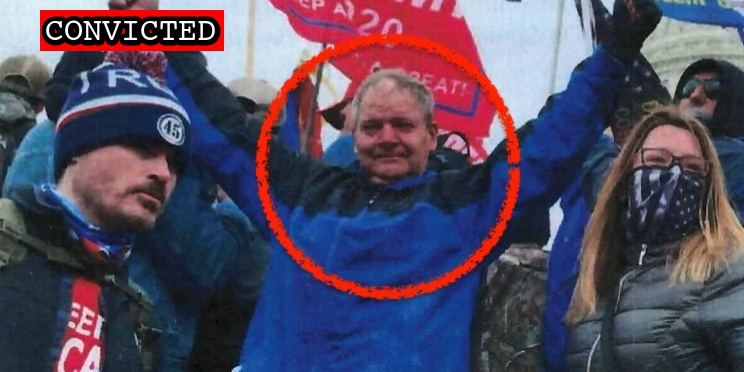
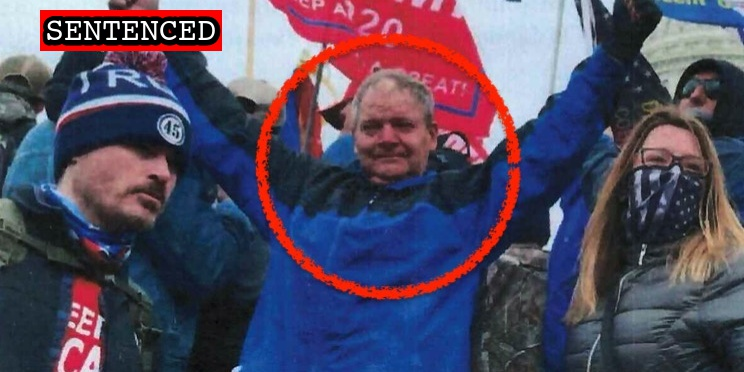
Richardson sentence

Changed region(s): [[0.0309, 0.0296, 0.2473, 0.1478], [0.2782, 0.0296, 0.3091, 0.1478]]

diff --git a/docs/_suspects/howard-richardson.md b/docs/_suspects/howard-richardson.md
@@ -4,17 +4,18 @@ lastName: Richardson
 hashtag: SwingerGramps
 aka:
 residence: Pennsylvania
-status: Convicted
+status: Sentenced
 date: 2021-11-22
 charged: 2021-11-22
 indicted: 2021-12-08
 convicted: 2022-04-26
 acquitted:
-sentenced:
+sentenced: 2022-08-26
 dismissed:
 deceased:
 plea_hearing: 2022-04-26
 trial_date:
+trial_type:
 sentencing: 2022-08-26
 age: 71
 occupation:
@@ -36,12 +37,16 @@ published: true
 caseNumber: 1:21-cr-721
 videos:
 charges:
-- code: 18 USC § 111(a)(1) and (b)
-  title: Assaulting, resisting, or impeding certain officers or employees using a dangerous or deadly weapon
-  url: https://www.law.cornell.edu/uscode/text/18/111
-  felony: true
+  - code: 18 USC § 111(a)(1) and (b)
+    title: Assaulting, resisting, or impeding certain officers or employees using a dangerous or deadly weapon
+    url: https://www.law.cornell.edu/uscode/text/18/111
+    felony: true
 sentence:
+  - 46 months incarceration
+  - 3 years probation
+  - $500 restitution
 ---
+
 - [News Report](https://6abc.com/howard-richardson-king-of-prussia-pa-capitol-riot-trump-flag/11291098/)
 - [Statement of Facts](https://www.justice.gov/usao-dc/case-multi-defendant/file/1459061/download)
 - [Indictment](https://www.justice.gov/usao-dc/case-multi-defendant/file/1459051/download)
